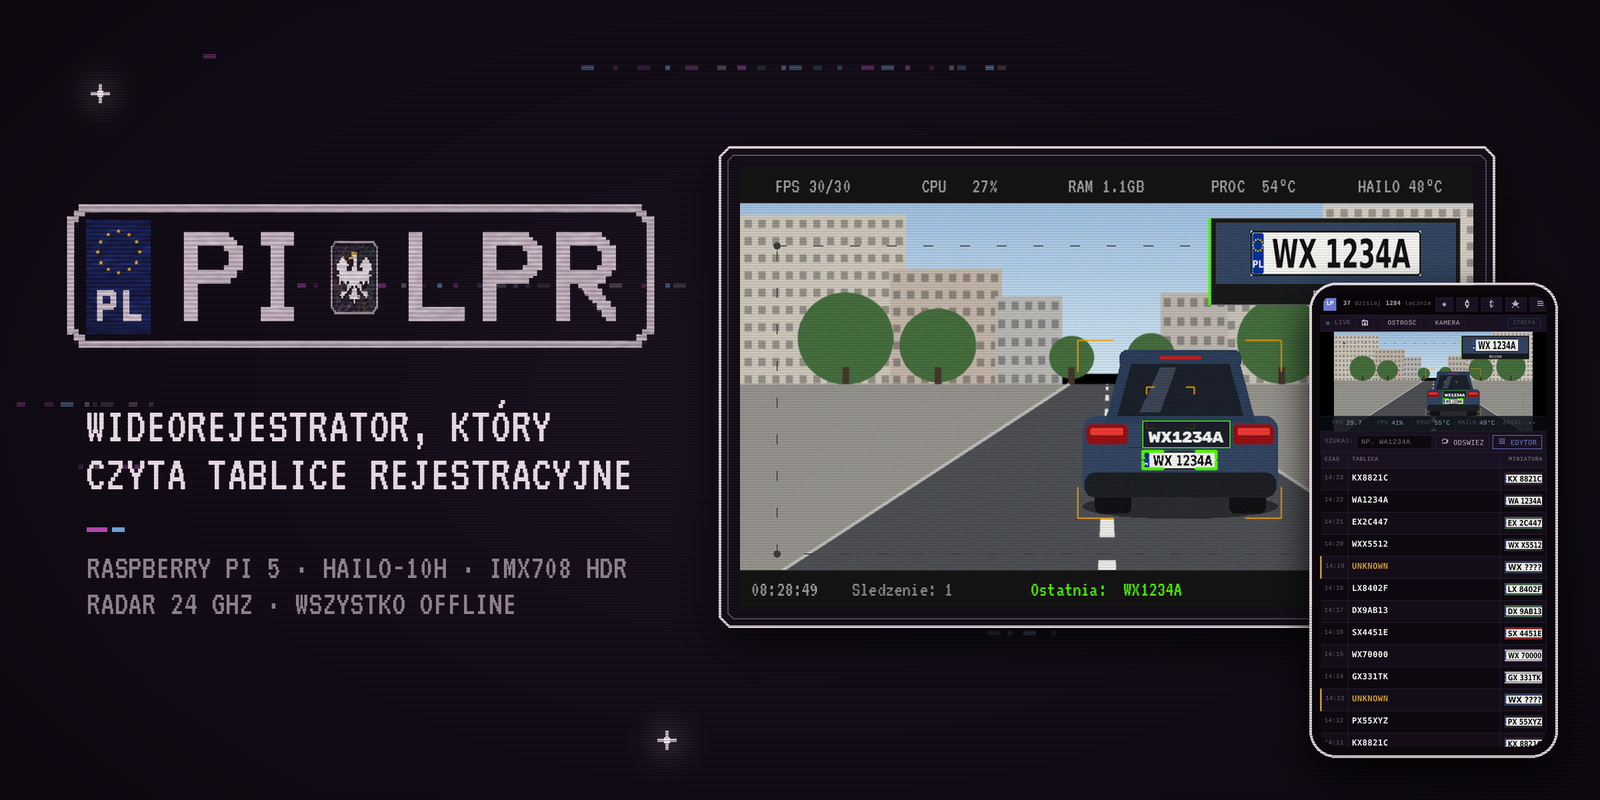
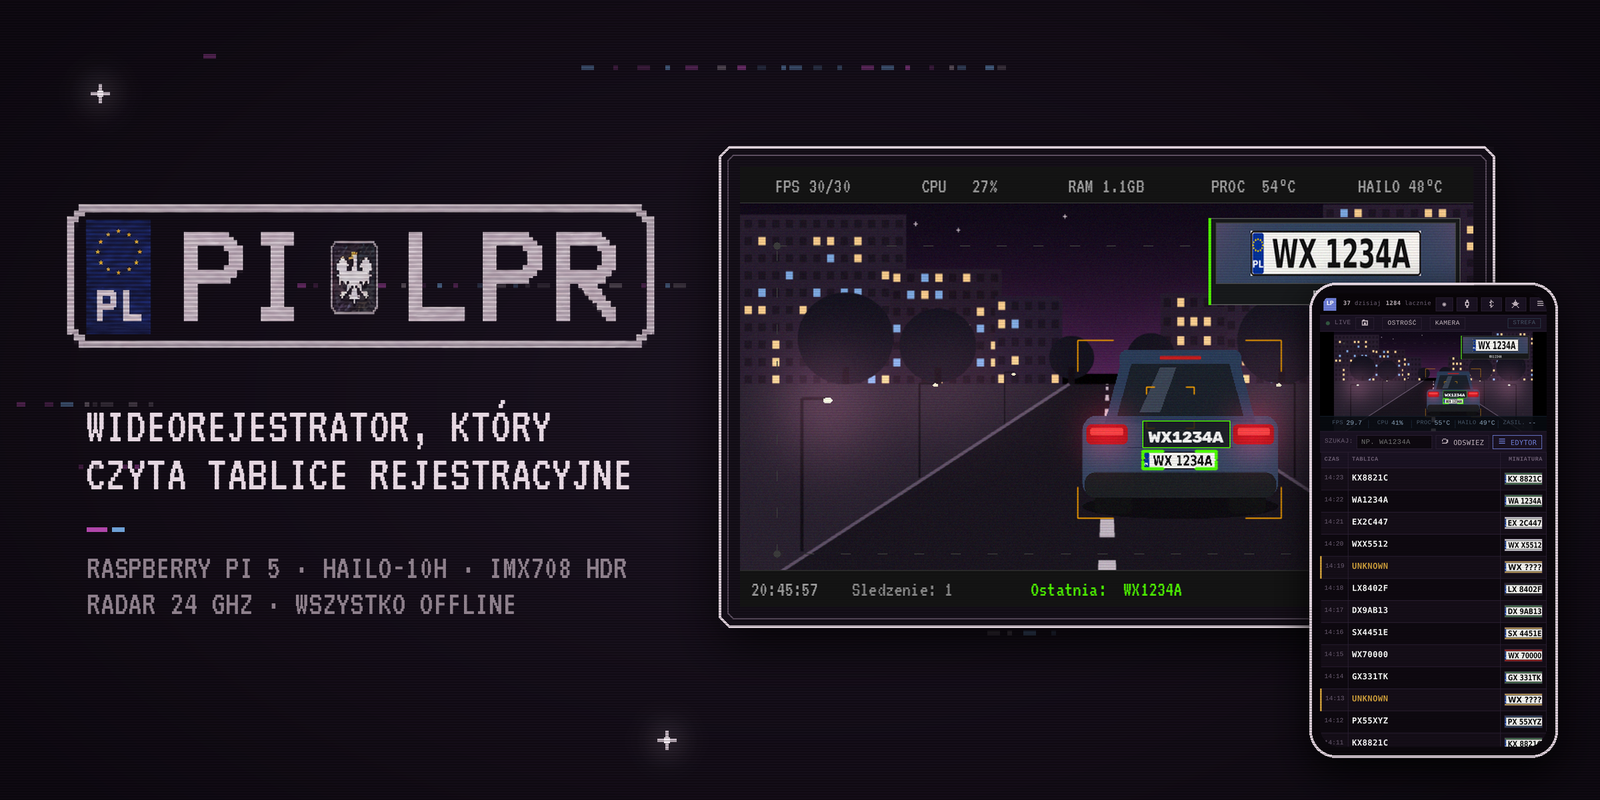
Scena z autem nocą, w kolorach tapety PiCamera
Syntetyczna scena (scene.py) domyślnie nocna: fioletowe niebo z łuną,
ciemne bloki z oświetlonymi oknami, latarnie i poświata tylnych lamp.
Przegenerowane ekrany urządzenia, zdjęcie z fotoradaru, zrzuty panelu
www i grafika tytułowa.

Claude-Session: https://claude.ai/code/session_018Qd61KvXJaRWXam2RvR95M

diff --git a/docs/obrazy_demo/scene.py b/docs/obrazy_demo/scene.py
@@ -63,13 +63,25 @@ def car_rear(w, body=(52,70,98), plate="WX 1234A"):
     hh=int(w*0.82)
     return im,(px/w,py/hh,(px+pw)/w,(py+ph)/hh)
 
-def scene(W=2304,H=1296,plate="WX 1234A",car_w=640,car_cx=0.52,car_by=0.80,body=(52,70,98),seed=3,night=False,extra_cars=True):
+BLOKI=((-40,520,140,(206,200,188)),(470,820,300,(196,182,170)),(1520,1880,280,(200,196,186)),(1830,2360,110,(214,206,196)),(800,1010,380,(186,186,182)),(1320,1530,370,(190,184,176)))
+
+def poswiata(im, punkty):
+    """Dodaje rozmyte światło (x, y, promień, kolor) do obrazu RGB."""
+    if not punkty: return im
+    g=Image.new("RGB",im.size,(0,0,0)); dg=ImageDraw.Draw(g)
+    for x,y,r,c in punkty: dg.ellipse([x-r,y-r,x+r,y+r],fill=c)
+    g=g.filter(ImageFilter.GaussianBlur(max(r for *_,r,_ in punkty)*0.9))
+    a=np.asarray(im).astype(np.int16)+np.asarray(g).astype(np.int16)
+    return Image.fromarray(np.clip(a,0,255).astype(np.uint8))
+
+def scene(W=2304,H=1296,plate="WX 1234A",car_w=640,car_cx=0.52,car_by=0.80,body=(52,70,98),seed=3,night=True,extra_cars=True):
     random.seed(seed)
     im=Image.new("RGB",(W,H)); d=ImageDraw.Draw(im)
     hz=int(H*0.47)
     for y in range(hz):
         t=y/hz
-        c=(int(150+60*t),int(185+45*t),int(222+20*t)) if not night else (int(25+40*t),int(35+45*t),int(60+50*t))
+        # noc w kolorach tapety PiCamera: fiolet u góry, różowa łuna nad horyzontem
+        c=(int(150+60*t),int(185+45*t),int(222+20*t)) if not night else (int(16+66*t**2),int(10+26*t**2),int(24+62*t**2))
         d.line([(0,y),(W,y)],fill=c)
     # bloki osiedla
     def blok(x0,x1,ytop,ybot,col):
@@ -78,28 +90,48 @@ def scene(W=2304,H=1296,plate="WX 1234A",car_w=640,car_cx=0.52,car_by=0.80,body=
         for i in range(nx):
             for j in range(ny):
                 wx=x0+(i+0.25)*(x1-x0)/nx; wy=ytop+(j+0.3)*(ybot-ytop)/ny
-                lit = night and random.random()<0.35
-                d.rectangle([wx,wy,wx+(x1-x0)/nx*0.5,wy+(ybot-ytop)/ny*0.45],
-                            fill=(255,214,140) if lit else tuple(int(c*0.72) for c in col))
-    for x0,x1,yt,col in ((-40,520,140,(206,200,188)),(470,820,300,(196,182,170)),(1520,1880,280,(200,196,186)),(1830,2360,110,(214,206,196)),(800,1010,380,(186,186,182)),(1320,1530,370,(190,184,176))):
-        blok(x0,x1,yt,hz+40,col if not night else tuple(int(c*0.35) for c in col))
+                r_ = random.random()
+                okno = tuple(int(c*0.72) for c in col)
+                if night and r_ < 0.26: okno = (250,206,142)
+                elif night and r_ < 0.33: okno = (126,170,226)
+                d.rectangle([wx,wy,wx+(x1-x0)/nx*0.5,wy+(ybot-ytop)/ny*0.45],fill=okno)
+    for x0,x1,yt,col in BLOKI:
+        blok(x0,x1,yt,hz+40,col if not night else (int(col[0]*0.2),int(col[1]*0.15),int(col[2]*0.26)))
     # drzewa
     for x,r in ((620,120),(330,150),(1700,140),(2050,170),(1040,70),(1290,75)):
-        g=(70,110,62) if not night else (22,36,26)
-        d.ellipse([x-r,hz-r*1.6,x+r,hz+r*0.2],fill=g); d.rectangle([x-10,hz-20,x+10,hz+60],fill=(70,55,45))
+        g=(70,110,62) if not night else (20,18,30)
+        d.ellipse([x-r,hz-r*1.6,x+r,hz+r*0.2],fill=g); d.rectangle([x-10,hz-20,x+10,hz+60],fill=(70,55,45) if not night else (16,12,20))
     # chodniki i jezdnia
     vx=W*0.5
-    d.polygon([(0,hz+30),(W,hz+30),(W,H),(0,H)],fill=(150,148,142) if not night else (52,52,56))
-    d.polygon([(vx-120,hz+30),(vx+120,hz+30),(W*1.02,H),(-W*0.02,H)],fill=(78,80,84) if not night else (34,35,38))
+    d.polygon([(0,hz+30),(W,hz+30),(W,H),(0,H)],fill=(150,148,142) if not night else (42,34,48))
+    d.polygon([(vx-120,hz+30),(vx+120,hz+30),(W*1.02,H),(-W*0.02,H)],fill=(78,80,84) if not night else (27,22,32))
     for k in range(9):
         t0=(k/9)**2; t1=((k+0.45)/9)**2
         y0=hz+30+(H-hz-30)*t0; y1=hz+30+(H-hz-30)*t1
         w0=3+30*t0; w1=3+30*t1
-        d.polygon([(vx-w0,y0),(vx+w0,y0),(vx+w1,y1),(vx-w1,y1)],fill=(235,235,230) if not night else (170,170,165))
+        d.polygon([(vx-w0,y0),(vx+w0,y0),(vx+w1,y1),(vx-w1,y1)],fill=(235,235,230) if not night else (196,184,196))
     # krawężniki
-    d.line([(vx-120,hz+30),(-W*0.02,H)],fill=(190,190,186),width=10)
-    d.line([(vx+120,hz+30),(W*1.02,H)],fill=(190,190,186),width=10)
+    kr=(190,190,186) if not night else (96,82,104)
+    d.line([(vx-120,hz+30),(-W*0.02,H)],fill=kr,width=10)
+    d.line([(vx+120,hz+30),(W*1.02,H)],fill=kr,width=10)
+    lampy=[]
+    if night:
+        for k in range(6):   # gwiazdki na niebie
+            sx,sy=random.uniform(0.05,0.95)*W,random.uniform(0.03,0.2)*H
+            if not any(x0<sx<x1 and sy>yt for x0,x1,yt,_ in BLOKI):
+                d.rectangle([sx-6,sy-1,sx+6,sy+1],fill=(210,196,206)); d.rectangle([sx-1,sy-6,sx+1,sy+6],fill=(210,196,206))
+        for t in (0.18,0.42,0.75):   # latarnie wzdłuż prawej krawędzi
+            for strona in (-1,1):
+                bx=vx+strona*(120+(W*0.52-120)*t)+strona*40*t; by=hz+30+(H-hz-30)*t
+                hp=60+520*t
+                d.line([(bx,by),(bx,by-hp)],fill=(20,16,24),width=int(3+10*t))
+                d.line([(bx,by-hp),(bx-strona*hp*0.18,by-hp)],fill=(20,16,24),width=int(3+8*t))
+                lampy.append((bx-strona*hp*0.18,by-hp+6,10+40*t))
     im=im.filter(ImageFilter.GaussianBlur(1.2))
+    if night:
+        d=ImageDraw.Draw(im)
+        for x,y,r in lampy: d.ellipse([x-r*0.35,y-r*0.2,x+r*0.35,y+r*0.2],fill=(255,226,190))
+        im=poswiata(im,[(x,y,r*3,(120,70,90)) for x,y,r in lampy])
     boxes=[]
     if extra_cars:
         c2,pb2=car_rear(150,(150,150,152),"WX 50000")
@@ -110,6 +142,8 @@ def scene(W=2304,H=1296,plate="WX 1234A",car_w=640,car_cx=0.52,car_by=0.80,body=
     ch=car.size[1]; x=int(W*car_cx-cw/2); y=int(H*car_by-ch)
     im.paste(car,(x,y),car)
     car_box=(x/W,y/H,(x+cw)/W,(y+ch)/H)
+    if night:   # poświata tylnych lamp i oświetlenie tablicy
+        im=poswiata(im,[(x+cw*0.14,y+ch*0.525,cw*0.09,(150,20,40)),(x+cw*0.86,y+ch*0.525,cw*0.09,(150,20,40))])
     plate_box=((x+pb[0]*cw)/W,(y+pb[1]*ch)/H,(x+pb[2]*cw)/W,(y+pb[3]*ch)/H)
     arr=np.array(im).astype(np.float32)
     arr+=np.random.default_rng(seed).normal(0,3.0,arr.shape)
